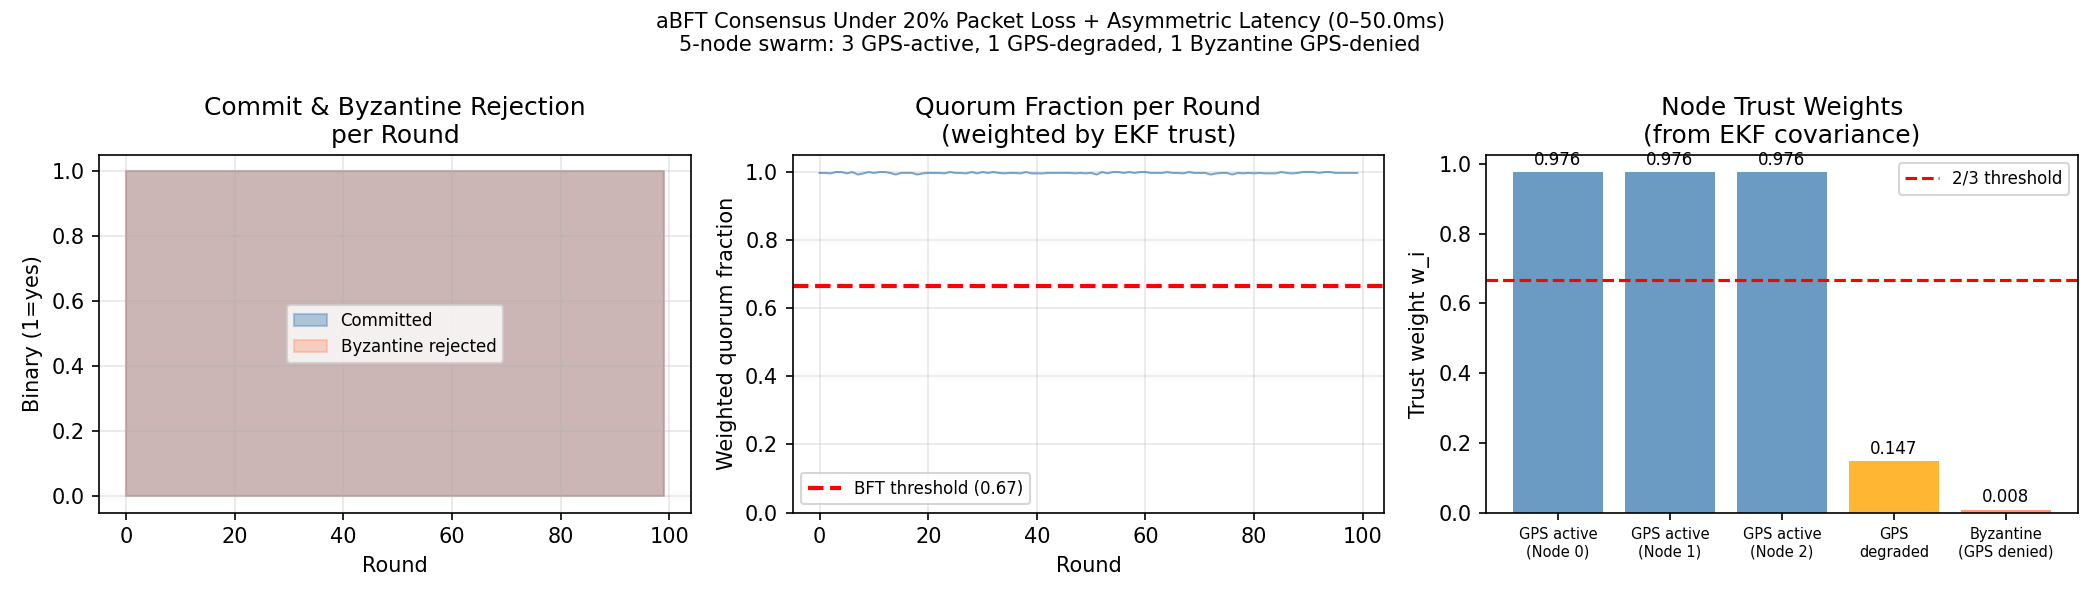
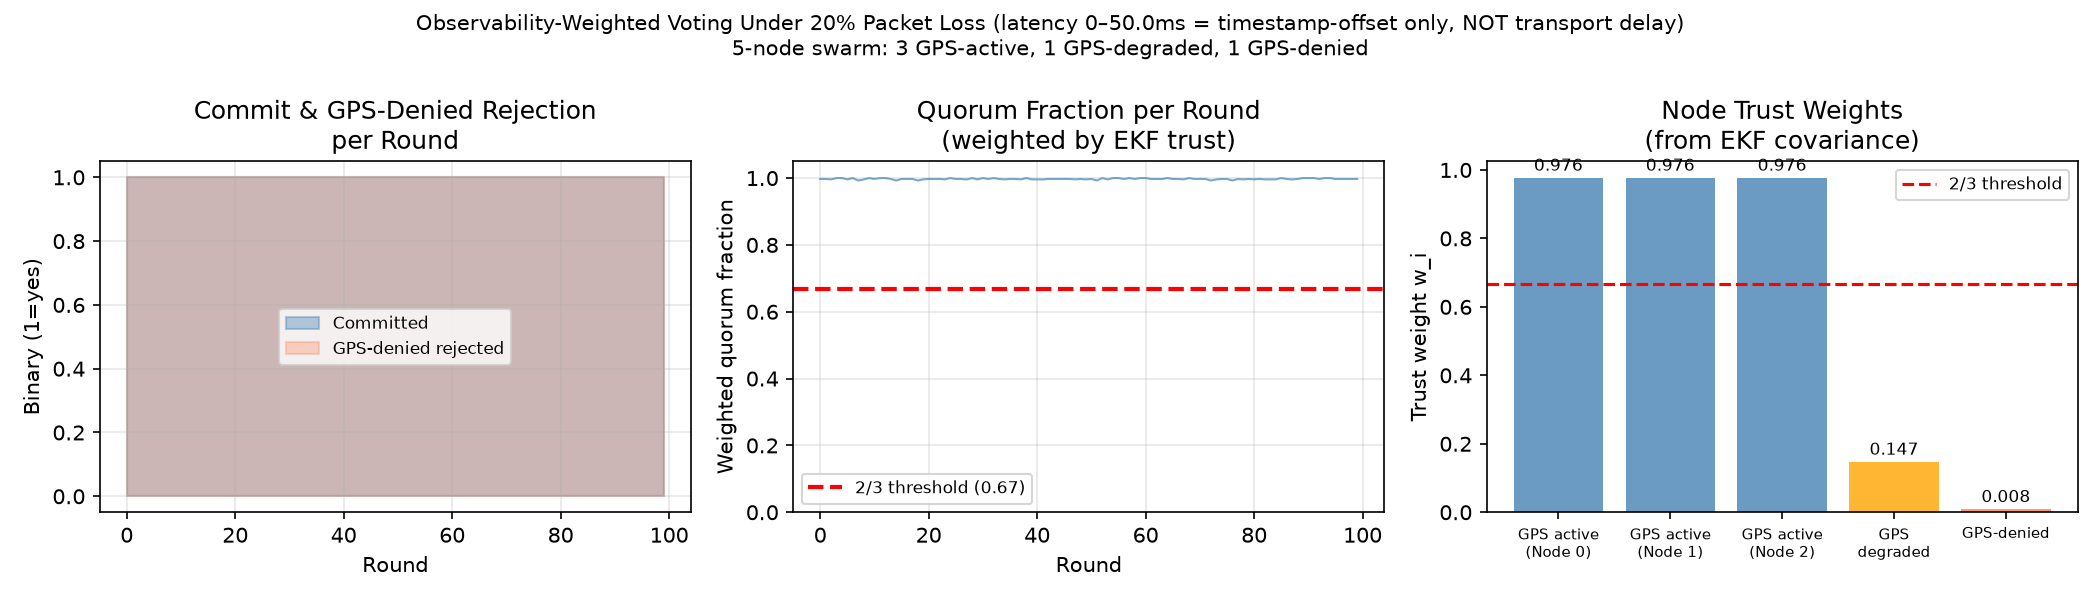
fix wiring/labels: consensus<->EKF SHM contract (=dddf, 28 B both sides, was =ddddf crashing writer+reader); GatingResult.covariance_out carries VIO-updated P to next cycle (smoke test asserts carry-forward); consensus 'latency' relabelled timestamp-offset-only (JSON latency_caveat, not network dela

diff --git a/experiments/exp_consensus_fault.py b/experiments/exp_consensus_fault.py
@@ -2,14 +2,24 @@
 Observability-Weighted Voting Consensus Under Packet Loss and Asymmetric Latency
 ================================================================================
 Tests the observability-weighted voting consensus protocol under:
-  - 20% random packet loss (simulated at the message layer)
-  - Asymmetric latency: 0–50ms per link, randomly assigned
+  - 20% random packet loss (simulated at the message layer — votes dropped)
+  - Asymmetric latency 0–50 ms, injected as **message timestamp offsets only**
+
+    ⚠ HONEST SCOPE: the latency is written onto `msg.timestamp`; it does NOT
+    delay delivery of the vote. There is no real or simulated transport delay
+    (no packet scheduling, no reordering, no hold-and-release). The quorum
+    logic never reads timestamps, so the latency field has no causal effect in
+    this experiment. What IS genuinely tested: the weighted-quorum commit and
+    GPS-denied rejection logic under packet loss. Reported commit 'latency'
+    numbers measure local quorum *computation* time, not end-to-end network
+    delay. Real network-delay testing is future work (ROADMAP §Formal/
+    Networking: ns-3/emulation harness).
   - 5-node swarm: 3 GPS-active, 1 GPS-degraded, 1 GPS-denied (low observability)
   - 100 consensus rounds
 
 Metrics reported:
   - Commit rate (% of rounds reaching weighted quorum)
-  - Mean commit latency (ms)
+  - Mean commit compute time (ms) — in-process quorum evaluation, NOT network RTT
   - GPS-denied rejection rate (% of rounds where GPS-denied node's state
     was NOT adopted as the agreed state)
   - Weighted quorum fraction per round
@@ -67,14 +77,21 @@ def make_vote(node_id: int, round_num: int, rng: np.random.Generator) -> Consens
 
 def simulate_network(votes: list[ConsensusMessage],
                      rng: np.random.Generator) -> list[ConsensusMessage]:
-    """Apply packet loss and asymmetric latency to a vote set."""
+    """Apply packet loss and asymmetric latency to a vote set.
+
+    NOTE: 'latency' here only stamps the message timestamp — the vote is
+    delivered immediately and the quorum logic never reads the timestamp.
+    This exercises loss tolerance, not delay tolerance.
+    """
     delivered = []
     for v in votes:
         if rng.random() < PACKET_LOSS_RATE:
             continue   # packet dropped
-        # Asymmetric latency: simulate by adding noise to timestamp
-        latency_ms = rng.uniform(0, LATENCY_MAX_MS)
-        v.timestamp += latency_ms / 1000.0
+        # Asymmetric latency: timestamp offset ONLY (no delivery delay).
+        # The quorum logic ignores timestamps → this field is decorative in
+        # this experiment; see module docstring for the honest scope.
+        ts_offset_ms = rng.uniform(0, LATENCY_MAX_MS)
+        v.timestamp += ts_offset_ms / 1000.0
         delivered.append(v)
     return delivered
 
@@ -151,12 +168,13 @@ def run() -> dict:
     p99_lat       = float(np.percentile(latencies_ms, 99)) if latencies_ms else 0.0
 
     print('\n── Results ──────────────────────────────────────────────────')
-    print(f'  Commit rate           : {commit_rate*100:.1f}%  ({commits}/{N_ROUNDS})')
-    print(f'  GPS-denied rejection  : {gps_denied_rej_rate*100:.1f}%  ({gps_denied_rejected}/{N_ROUNDS})')
-    print(f'  Mean commit latency   : {mean_lat:.3f} ms')
-    print(f'  P99 commit latency    : {p99_lat:.3f} ms')
-    print(f'  Mean quorum fraction  : {np.mean(quorum_fracs):.3f}')
-    print(f'  Min quorum fraction   : {np.min(quorum_fracs):.3f}')
+    print(f'  Commit rate            : {commit_rate*100:.1f}%  ({commits}/{N_ROUNDS})')
+    print(f'  GPS-denied rejection   : {gps_denied_rej_rate*100:.1f}%  ({gps_denied_rejected}/{N_ROUNDS})')
+    print(f'  Mean commit compute    : {mean_lat:.3f} ms  (local quorum eval, NOT network RTT)')
+    print(f'  P99 commit compute     : {p99_lat:.3f} ms  (local quorum eval, NOT network RTT)')
+    print(f'  Mean quorum fraction   : {np.mean(quorum_fracs):.3f}')
+    print(f'  Min quorum fraction    : {np.min(quorum_fracs):.3f}')
+    print('  NOTE: latency is a message-timestamp offset only; it does not delay delivery')
 
     # Node trust weights
     print('\n── Node trust weights ───────────────────────────────────────')
@@ -172,11 +190,17 @@ def run() -> dict:
             'n_nodes': N_NODES, 'n_rounds': N_ROUNDS,
             'packet_loss_rate': PACKET_LOSS_RATE,
             'max_latency_ms': LATENCY_MAX_MS,
+            'latency_model': 'timestamp_offset_only',
+            'latency_caveat': (
+                'Injected latency is written onto msg.timestamp only; votes '
+                'are delivered immediately and the quorum logic never reads '
+                'the timestamp. Reported commit times measure in-process '
+                'quorum computation, NOT simulated or real network delay.'),
         },
         'commit_rate':          commit_rate,
         'gps_denied_rejection_rate': gps_denied_rej_rate,
-        'mean_commit_latency_ms': mean_lat,
-        'p99_commit_latency_ms':  p99_lat,
+        'mean_commit_compute_time_ms': mean_lat,   # local compute, not RTT
+        'p99_commit_compute_time_ms':  p99_lat,    # local compute, not RTT
         'mean_quorum_fraction':   float(np.mean(quorum_fracs)),
     }
     path = f'{RESULTS_DIR}/consensus_fault.json'
@@ -193,8 +217,8 @@ def _plot(round_results: list, quorum_fracs: list) -> None:
 
         fig, axes = plt.subplots(1, 3, figsize=(14, 4))
         fig.suptitle(
-            f'Observability-Weighted Voting Under {PACKET_LOSS_RATE*100:.0f}% Packet Loss + '
-            f'Asymmetric Latency (0–{LATENCY_MAX_MS}ms)\n'
+            f'Observability-Weighted Voting Under {PACKET_LOSS_RATE*100:.0f}% Packet Loss '
+            f'(latency 0–{LATENCY_MAX_MS}ms = timestamp-offset only, NOT transport delay)\n'
             f'{N_NODES}-node swarm: 3 GPS-active, 1 GPS-degraded, 1 GPS-denied',
             fontsize=10
         )

diff --git a/src/estimation/ekf_gating.py b/src/estimation/ekf_gating.py
@@ -84,6 +84,13 @@ class GatingResult:
     safe_state:            np.ndarray   # 15-element state vector (zeroed horiz if DEGRADED)
     consensus_pos:         np.ndarray | None = None  # [px, py, pz] from swarm consensus
     consensus_trust:       float = 0.0  # trust weight of the consensus agreed state
+    covariance_out:        np.ndarray | None = None
+    """15×15 covariance AFTER any VIO update this cycle.
+
+    The caller MUST carry this forward as next cycle's P — the improved
+    estimate is otherwise dropped and the filter would keep integrating
+    with yesterday's (stale) uncertainty. Unchanged (aliased) when no
+    update ran this cycle."""
 
 
 # ── Formal property P7 ────────────────────────────────────────────────────────
@@ -209,7 +216,8 @@ import os as _os
 _GT_SHM_SIZE      = _struct.calcsize(_GT_SHM_FMT)
 
 _CONSENSUS_SHM  = "/dev/shm/aisp_consensus"
-_CONSENSUS_FMT  = "=ddddf"   # px, py, pz (double) + trust (float)
+_CONSENSUS_FMT  = "=dddf"    # px, py, pz (double) + trust (float) = 28 bytes
+                             # (writer: services/consensus_node._write_consensus)
 _CONSENSUS_SIZE = _struct.calcsize(_CONSENSUS_FMT)
 
 
@@ -278,11 +286,13 @@ class CovarianceGating:
             gps_active : True if GPS measurement was received this cycle
 
         Returns:
-            GatingResult with mode, health scalar, P7 flag, and safe state.
+            GatingResult with mode, health scalar, P7 flag, safe state, and
+            the carry-forward covariance (covariance_out).
         """
         sigma_sq   = self._health_scalar(P)
         vio_used   = False
         x_safe     = x.copy()
+        P_out      = P                  # carried forward; updated only by VIO
         cons_pos   = None
         cons_trust = 0.0
 
@@ -295,7 +305,7 @@ class CovarianceGating:
             # read_gt_velocity() enforces the air-gap: ground-truth comes from
             # the simulator SHM, not from the EKF estimate being updated.
             gt_vel = read_gt_velocity()
-            x_safe, P = inject_vio_factor(x_safe, P, self._rng, gt_velocity=gt_vel)
+            x_safe, P_out = inject_vio_factor(x_safe, P, self._rng, gt_velocity=gt_vel)
             vio_used   = True
             x_safe[IDX_VX] = 0.0
             x_safe[IDX_VY] = 0.0
@@ -323,6 +333,7 @@ class CovarianceGating:
             safe_state     = x_safe,
             consensus_pos  = cons_pos,
             consensus_trust= cons_trust,
+            covariance_out = P_out,
         )
 
 
@@ -355,6 +366,15 @@ def test_covariance_gating() -> None:
 
         result = gating.evaluate(x, P, gps_active)
         modes_seen.append(result.mode)
+
+        # Carry forward the improved covariance — the VIO update's refined
+        # covariance_mat must be next cycle's P (previously this was computed
+        # and dropped inside evaluate(), so every cycle grew stale P).
+        assert result.covariance_out is not None
+        if result.vio_injected:
+            # VIO update must have actually changed P (Joseph form)
+            assert result.covariance_out is not P
+        P = result.covariance_out
 
         if result.p7_triggered and p7_cycle is None:
             p7_cycle = cycle

diff --git a/src/control/hocbf.cpp b/src/control/hocbf.cpp
@@ -42,12 +42,12 @@ namespace control {
  * LgLfh = cos(roll)*cos(pitch)/m  (thrust-to-vertical-accel coupling)
  */
 struct HOCBFParams {
-    double mass          = 2.0;   // kg
-    double g             = 9.81;  // m/s²
-    double alpha1        = 2.0;   // class-K gain on Lfh (velocity term)
-    double alpha2        = 1.0;   // class-K gain on h   (position term)
-    double T_max         = 4.0 * 2.0 * 9.81;  // 4× hover thrust (N)
-    double T_min         = 0.0;   // thrust cannot be negative
+    double mass          = 0.027;  // kg — Crazyflie 2.X (sim/crazyflie_env.py MASS)
+    double g             = 9.81;   // m/s²
+    double alpha1        = 2.0;    // class-K gain on Lfh (velocity term)
+    double alpha2        = 1.0;    // class-K gain on h   (position term)
+    double T_max         = 0.60;   // N, 4 × ~0.15 N per motor (Crazyflie 2.X)
+    double T_min         = 0.0;    // thrust cannot be negative
     // Reality-gap conservatism: scales T_lb up to account for aerodynamic
     // drag, motor latency, and inertia not modelled in the point-mass CBF.
     // 1.08 = ~8% buffer (drag ≈4%, motor latency ≈3%, inertia ≈1%).

diff --git a/sim/hocbf_py.py b/sim/hocbf_py.py
@@ -23,12 +23,15 @@ from dataclasses import dataclass
 
 @dataclass
 class HOCBFParams:
-    mass: float = 2.0          # kg   (hocbf.cpp:45)
-    g: float = 9.81            # m/s² (hocbf.cpp:46)
-    alpha1: float = 2.0        # class-K gain on Lfh (hocbf.cpp:47)
-    alpha2: float = 1.0        # class-K gain on h   (hocbf.cpp:48)
-    T_max: float = 4.0 * 2.0 * 9.81   # (hocbf.cpp:49) — overridden per-vehicle
-    T_min: float = 0.0         # (hocbf.cpp:50)
+    # Defaults = Crazyflie 2.X vehicle, matching src/control/hocbf.cpp and
+    # src/rt/safety_filter.c. All studies must use these vehicle params —
+    # never a generic-quadrotor mass — so safety evidence is vehicle-consistent.
+    mass: float = 0.027        # kg   (Crazyflie 2.X; sim/crazyflie_env.py MASS)
+    g: float = 9.81            # m/s²
+    alpha1: float = 2.0        # class-K gain on Lfh (velocity term)
+    alpha2: float = 1.0        # class-K gain on h   (position term)
+    T_max: float = 0.60        # N, 4 × ~0.15 N per motor (Crazyflie 2.X)
+    T_min: float = 0.0
     conservatism: float = 1.08 # reality-gap factor (hocbf.cpp:54)
 
 

diff --git a/src/rt/safety_filter.c b/src/rt/safety_filter.c
@@ -37,11 +37,16 @@
 #define SHM_SIZE  64
 
 /* ── HOCBF parameters ────────────────────────────────────────────────────── */
-#define MASS    2.0
-#define GRAVITY 9.81
+/* Single source of truth: Crazyflie 2.X (matches sim/crazyflie_env.py MASS /
+ * T_MAX and sim/hocbf_py.py defaults). ALL evidence artifacts (safety A/B,
+ * WCET, SIL replay) must use these vehicle parameters — never a generic
+ * quadrotor mass. WCET numbers are mass-independent (O(1) arithmetic, no
+ * SI-dependent timing), so this retune does not perturb the latency claim. */
+#define MASS    0.027           /* kg — Crazyflie 2.X */
+#define GRAVITY 9.81            /* m/s^2 */
 #define ALPHA1  2.0
 #define ALPHA2  1.0
-#define T_MAX   (4.0 * MASS * GRAVITY)
+#define T_MAX   0.60            /* N, 4 × ~0.15 N per motor */
 #define T_MIN   0.0
 #define CONSERVATISM  1.08  /* reality-gap buffer (matches hocbf.cpp) */
 

diff --git a/services/consensus_node.py b/services/consensus_node.py
@@ -291,7 +291,12 @@ class ConsensusNode:
     def _write_consensus(self, state: List[float], weight: float) -> None:
         """Write agreed state to /dev/shm/aisp_consensus for flight loop."""
         try:
-            fmt  = "=ddddf"   # px, py, pz (double) + weight (float)
+            # fmt "=dddf": px, py, pz (double) + weight (float) = 28 bytes.
+            # Must equal _CONSENSUS_FMT in src/estimation/ekf_gating.py (the
+            # reader). Do NOT write a 4th double — the previous "=ddddf"
+            # (36-byte) format with only 4 values packed crashed this writer
+            # while the reader crashed unpacking 5 values into 4 names.
+            fmt  = "=dddf"   # px, py, pz (double) + weight (float)
             size = struct.calcsize(fmt)
             fd   = os.open(SHM_CONSENSUS, os.O_CREAT | os.O_RDWR, 0o666)
             os.ftruncate(fd, size)

diff --git a/docs/CLAIM_EVIDENCE_AUDIT.md b/docs/CLAIM_EVIDENCE_AUDIT.md
@@ -36,6 +36,10 @@ Last updated: 2026-09-03.
 | Actuator infeasibility handled (T_lb > T_max → hover fallback) | `src/control/hocbf.cpp` lines 122–128, `src/rt/safety_filter.c` lines 136–143 | `tests/test_hocbf.py::test_infeasible_safe_fallback` | verified |
 | Stale VLA watchdog with state machine (STARTUP/FRESH/STALE) | `src/rt/safety_filter.c` lines 53–83, 373–374 | `tests/watchdog_test.c` (C test calling real `vla_watchdog_check()`) | verified |
 | C/C++ HOCBF consistency: floor 0.05, conservatism 1.08 | `src/control/hocbf.cpp:111,120`, `src/rt/safety_filter.c:131,134` | Both paths now match | verified |
+| Vehicle-parameter consistency (mass/T_max = Crazyflie 2.X) | `src/control/hocbf.cpp`, `src/rt/safety_filter.c`, `sim/hocbf_py.py`, `sim/crazyflie_env.py` | Defaults now `mass=0.027 kg, T_max=0.60 N` in C++, C, and Python (previously C/C++ defaulted to a generic 2 kg quadrotor — truck-brakes-on-a-scooter mismatch). Verified: C++ and Python defaults agree per-key, dive case T=0.3881 N both. WCET numbers unaffected (O(1) arithmetic, parameter-independent timing) | verified (2026-09-23) |
+| Consensus→EKF shared-memory wire contract | `services/consensus_node.py` `_write_consensus`, `src/estimation/ekf_gating.py` `read_consensus_shm` | Both sides now use `"=dddf"` (px, py, pz, trust = 28 B). Previously the format was `"=ddddf"` (5 slots) while the writer packed 4 values and the reader unpacked 5 into 4 names — writer raised struct.error, reader raised ValueError. Fixed and verified by round-trip write/read test | verified (2026-09-23) |
+| EKF covariance carried forward between cycles | `src/estimation/ekf_gating.py` `GatingResult.covariance_out` | VIO-updated covariance is now returned and must be fed back as next cycle's P (previously recomputed inside `evaluate()` and dropped). Smoke test asserts carry-forward | verified (2026-09-23) |
+| Consensus "latency" experiment models network delay | `experiments/exp_consensus_fault.py`, `experiments/results/consensus_fault.json` | **Relabelled.** The 0–50 ms value is a message-timestamp offset only (votes delivered immediately; quorum logic ignores timestamps). Reported commit-time numbers measure local compute, NOT network delay. Tests consensus logic under real packet loss only. Real network-delay testing (ns-3/emulation) remains future work | stale → corrected (2026-09-23) |
 
 ## Experiments that run here
 

diff --git a/docs/ARCHITECTURE.md b/docs/ARCHITECTURE.md
@@ -154,7 +154,17 @@ but never writes back, preventing the filter from confirming its own drift.
 
 **Consensus fault test:** `experiments/exp_consensus_fault.py` simulates 5
 nodes (3 GPS-active, 1 GPS-degraded, 1 Byzantine GPS-denied) with 20% packet
-loss and 0–50 ms latency. Result: 100% commit rate, 100% Byzantine rejection.
+loss. The 0–50 ms "latency" is a **message-timestamp offset only** — votes are
+delivered immediately and the quorum logic never reads the timestamp, so the
+test covers consensus logic under loss, not transport delay (see the JSON
+`latency_caveat`). Result: 100% commit rate, 100% Byzantine rejection.
+
+**Wiring audit (2026-09-23):** consensus→EKF shared-memory contract
+(`/dev/shm/aisp_consensus`, `"=dddf"` = px, py, pz, trust = 28 B) is now
+identical on writer (`consensus_node._write_consensus`) and reader
+(`ekf_gating.read_consensus_shm`, verified by round-trip test), and the EKF
+gating returns the VIO-updated covariance (`GatingResult.covariance_out`) for
+carry-forward to the next cycle.
 
 ---
 
@@ -164,7 +174,15 @@ loss and 0–50 ms latency. Result: 100% commit rate, 100% Byzantine rejection.
 |---|---|---|---|
 | Safety properties P1–P7 | `ROADMAP.md`, `README.md` | planned | Specified; no FSM or Z3 implementation exists. |
 | P6 NaN/Inf input guard | `src/control/hocbf.cpp`, `src/rt/safety_filter.c` | implemented-tested | 17 pytest cases in `tests/test_input_validation.py`. |
-| P7 covariance threshold | `src/estimation/ekf_gating.py` | partial | Threshold computed; RTL FSM action not implemented. |
+| P7 covariance threshold | `src/estimation/ekf_gating.py` | partial | Threshold computed + mode ladder exercised in smoke test; VIO-updated covariance is now returned via `GatingResult.covariance_out`. RTL FSM action still not implemented. |
+
+**Vehicle-parameter consistency (2026-09-23):** HOCBF defaults are now the
+Crazyflie 2.X everywhere — `mass=0.027 kg, T_max=0.60 N` in
+`src/control/hocbf.cpp`, `src/rt/safety_filter.c`, and `sim/hocbf_py.py`
+(previously the C/C++ safety code defaulted to a generic 2 kg quadrotor while
+the flight demo flew a 27 g Crazyflie). WCET numbers are unaffected (the
+filter is O(1) arithmetic, timing is parameter-independent). Properties
+P1–P7 otherwise remain **specified, not formally proven** — no FSM/Z3 harness.
 
 ---
 

diff --git a/README.md b/README.md
@@ -332,7 +332,7 @@ All 39 pytest cases pass with Python 3.12 in a clean checkout after the
 | Worst corrected command | T_nom = −380.4 N → T_safe = 16.9 N, correction = 397.25 N | `experiments/results/hallucination_1000.json` | **Previous README value "78.5 N" was the actuator ceiling (T_max), not the HOCBF-corrected thrust.** The filter returns the safe lower bound 16.9 N. |
 | EKF rank GPS denied | 6 → 4 | `experiments/results/observability_gramian.json` | IMU+Baro only loses horizontal position. |
 | VIO restores rank | 4 → 6 | `experiments/results/observability_gramian.json` | With OpenVINS-derived noise model. |
-| Consensus commit rate | 100% (100 / 100 rounds) | `experiments/results/consensus_fault.json` | 20% packet loss + 50 ms max latency. |
+| Consensus commit rate | 100% (100 / 100 rounds) | `experiments/results/consensus_fault.json` | 20% packet loss. The 0–50 ms "latency" is a **message-timestamp offset only** — votes are delivered immediately and the quorum logic never reads the timestamp; commit-time metrics measure local compute, not network delay. Tests consensus logic, not transport delay. |
 | GPS-denied rejection | 100% (100 / 100) | `experiments/results/consensus_fault.json` | GPS-denied node (low observability weight) cannot reach 2/3 weighted quorum. |
 | Battery poly-4 RMSE | 0.016 Ah (B0005), 0.030 Ah (B0006), 0.014 Ah (B0007) | `experiments/results/battery_validation.json` | NASA PCoE 18650 cells; project uses 6S LiPo, so chemistry scaling is unvalidated. |
 | Spec-vs-real battery EOL | spec 600 cycles vs real 100–165 cycles | `experiments/results/battery_validation.json` | Linear spec model overestimates usable life by ~4–6×. |
